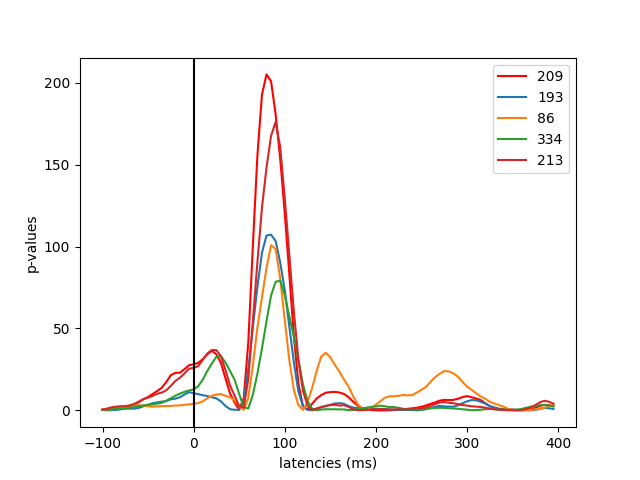
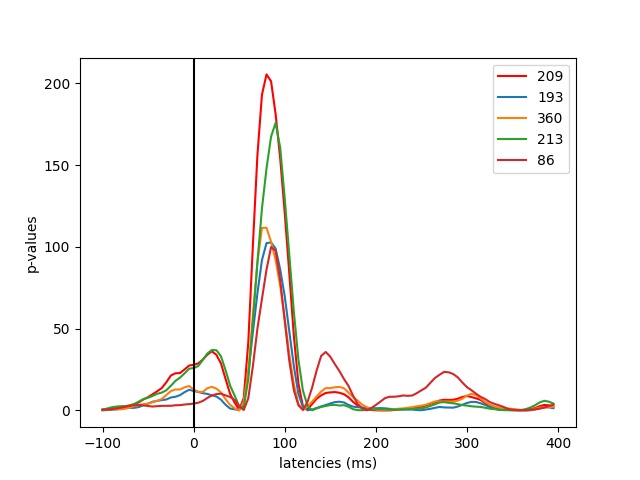
Update

diff --git a/invokers/run_gridsearch.py b/invokers/run_gridsearch.py
@@ -66,7 +66,7 @@ def main():
     emeg, ch_names = load_emeg_pack(emeg_paths,
                                     need_names=False,
                                     ave_mode=args.ave_mode,
-                                    inverse_operator=None, #inverse_operator, # set to None/inverse_operator if you want to run on sensor space/source space
+                                    inverse_operator=inverse_operator, #inverse_operator, # set to None/inverse_operator if you want to run on sensor space/source space
                                     p_tshift=None,
                                     snr=args.snr)
 

diff --git a/kymata/gridsearch/plain.py b/kymata/gridsearch/plain.py
@@ -94,7 +94,7 @@ def do_gridsearch(
 
     if plot_name:
         plt.figure(1)
-        corr_avrs = np.mean(corrs[:, 0]**2, axis=-2)
+        corr_avrs = np.mean(corrs[:, 0], axis=-2)**2
         maxs = np.max(corr_avrs, axis=1)
         n_amaxs = 5
         amaxs = np.argpartition(maxs, -n_amaxs)[-n_amaxs:]
